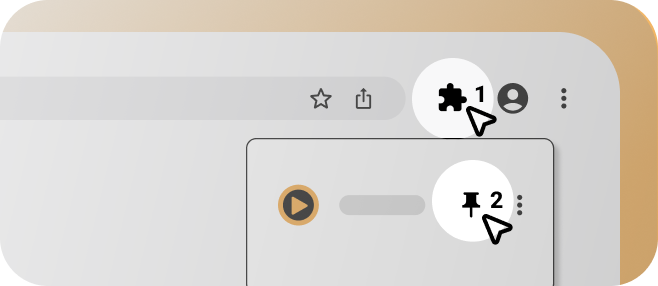
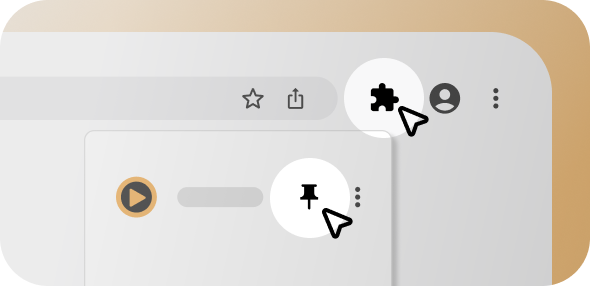
update tutorial pngs for install card

diff --git a/eye-saver/src/onboarding.html b/eye-saver/src/onboarding.html
@@ -301,7 +301,7 @@
               <div class="todo-content" style="display: none">
                 <img
                   class="customize-experience-tutorial content-img"
-                  src="../images/customize-experience-tutorial.png" />
+                  src="../images/popup-tutorial.png" />
                 <ol class="instructions">
                   <li>
                     Click&nbsp
